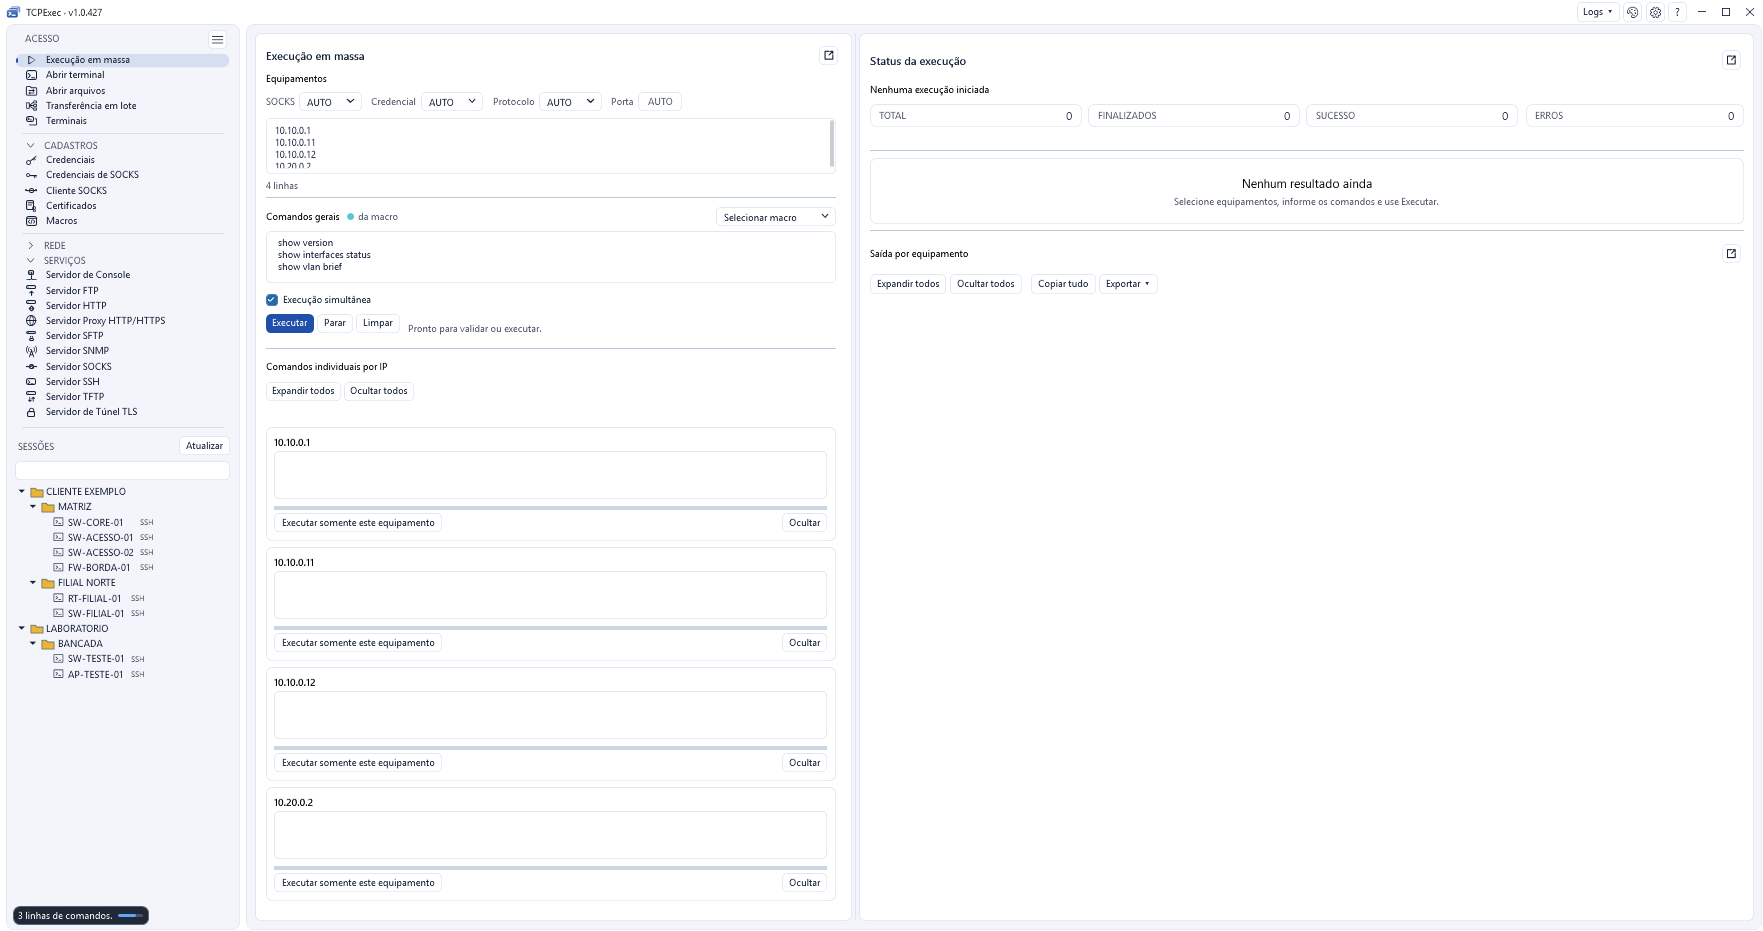
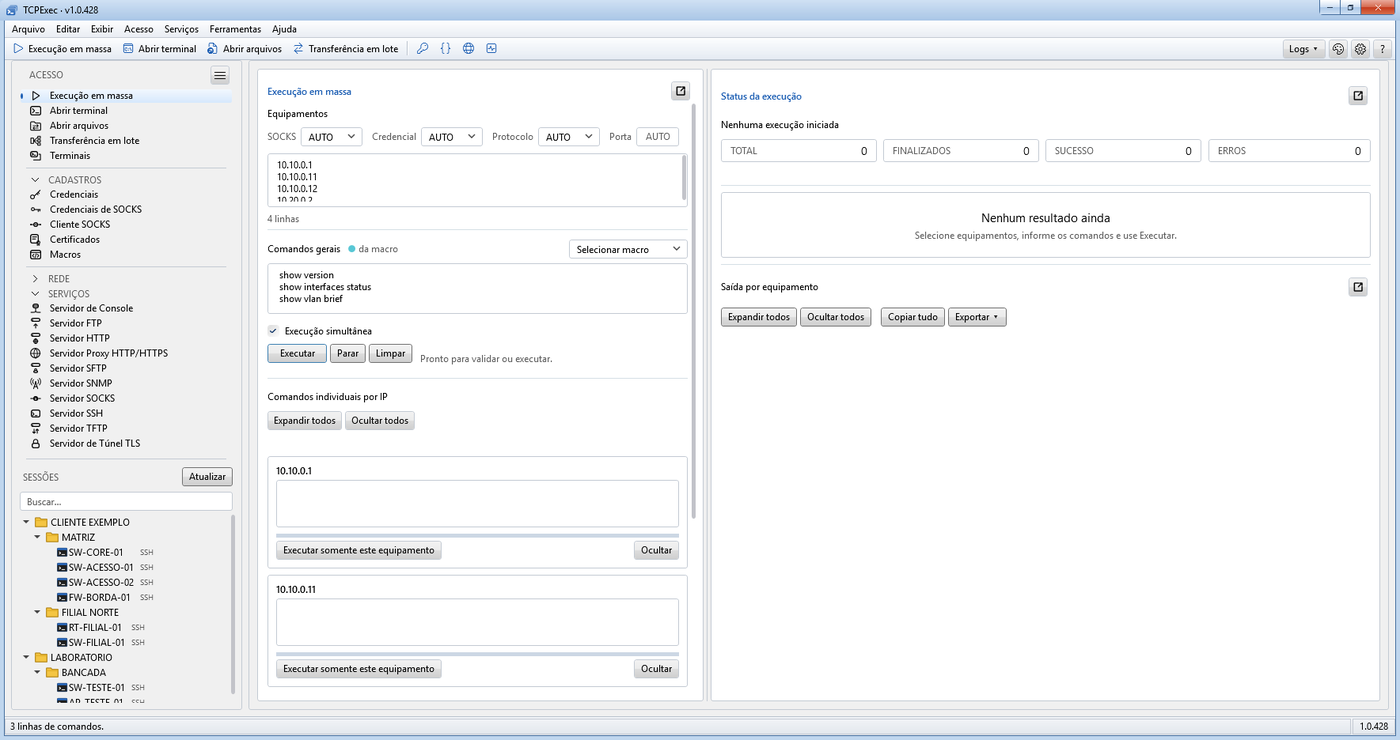
README vitrine e telas da 1.0.428 (Windows 7 Basic + Windows Clássico)

diff --git a/README.md b/README.md
@@ -1,21 +1,52 @@
-# TCPExec
+<p align="center"><img src="telas/banner.png" alt="TCPExec" width="100%"></p>
 
-Acesse e execute comandos em switches, roteadores, firewalls e servidores, um ou centenas de uma vez. / Access and run commands on switches, routers, firewalls and servers, one or hundreds at a time.
+<p align="center">
+<img src="https://img.shields.io/badge/vers%C3%A3o-1.0.428-blue"> <img src="https://img.shields.io/badge/Windows-10%20%7C%2011-0078D6"> <img src="https://img.shields.io/badge/.NET-11-512BD4">
+</p>
 
-![Tela principal / Main window](telas/principal.png)
-![Modo clássico (Windows 7) / Classic mode (Windows 7)](telas/classico.png)
-![As 10 cores de janela / The 10 window colors](telas/cores.png)
-![Escolha da aparência / Appearance choice](telas/escolha.png)
+<p align="center"><b>A estação de trabalho do técnico de redes: acesse e mande comandos para um equipamento ou para centenas de uma vez.</b><br><i>The network technician's workstation: access and send commands to one device or hundreds at once.</i></p>
 
-## Baixar / Download — v1.0.427
+<p align="center"><img src="telas/uso.gif" alt="TCPExec nos temas e cores / TCPExec in its themes and colors" width="85%"></p>
 
-- [Instalador / Installer (.msi)](https://github.com/Dorflex-DD/TCPExec/releases/download/v1.0.427/TCPExec_v1.0.427_instalador_sem-runtime.msi)
-- [Portátil / Portable (.zip)](https://github.com/Dorflex-DD/TCPExec/releases/download/v1.0.427/TCPExec_v1.0.427_executavel_sem-runtime.zip)
+## O que é / What it is
+Para quem cuida de switches, roteadores, firewalls e servidores. O TCPExec guarda os equipamentos em pastas, abre SSH, Telnet, serial e RDP e executa os mesmos comandos em muitos equipamentos de uma vez. Também traz servidores prontos (FTP, TFTP, SFTP, SSH, HTTP, SOCKS).
+*For people who look after switches, routers, firewalls and servers. TCPExec keeps devices in folders, opens SSH, Telnet, serial and RDP, and runs the same commands on many devices at once. It also ships ready-made servers (FTP, TFTP, SFTP, SSH, HTTP, SOCKS).*
 
-Windows 10/11 x64 · .NET 11
+## Destaques / Highlights
+| | |
+|---|---|
+| **Execução em massa** — os mesmos comandos em centenas de equipamentos, com o resultado de cada um.<br>*Mass execution — the same commands on hundreds of devices, with each result.* | ![](telas/principal.png) |
+| **Visual Windows 7 Basic ou Windows Clássico** — 10 cores de janela, claro ou escuro, trocados na hora.<br>*Windows 7 Basic or Windows Classic look — 10 window colors, light or dark, switched instantly.* | ![](telas/aparencia.png) |
+| **Tudo à mão no botão direito** — conectar, abrir arquivos, monitorar e copiar a partir do equipamento.<br>*Everything on right-click — connect, open files, monitor and copy from the device.* | ![](telas/menu-equipamento.png) |
 
-## Novidades / What's new
+## Como funciona / How it works
+1. Instale o .msi ou abra o portátil. / *Install the .msi or open the portable version.*
+2. Cadastre os equipamentos em pastas (um ou vários de uma vez). / *Add devices to folders (one or many at once).*
+3. Conecte com dois cliques ou mande comandos para todos de uma vez. / *Connect with a double-click or send commands to all at once.*
 
-- Novo Modo clássico (Windows 7). / New classic mode (Windows 7).
-- 10 cores de janela. / 10 window colors.
-- Estilo e cor em Configurações, vale na hora. / Style and color in Settings, applied right away.
+## Funcionalidades / Features
+| Recurso / Feature | O que faz / What it does |
+|---|---|
+| Terminais | SSH, Telnet, serial e RDP em abas, lado a lado ou em blocos. / *SSH, Telnet, serial and RDP in tabs, side by side or in blocks.* |
+| Execução em massa | Comandos e macros em muitos equipamentos, com histórico. / *Commands and macros on many devices, with history.* |
+| Servidores prontos | FTP, TFTP, SFTP, SSH, HTTP, Proxy, SOCKS, SNMP e túnel TLS. / *FTP, TFTP, SFTP, SSH, HTTP, Proxy, SOCKS, SNMP and TLS tunnel.* |
+| Ferramentas | Encaminhar portas, teste HTTP, cliente SNMP, inventário e monitorar IPs. / *Port forwarding, HTTP test, SNMP client, inventory and IP monitoring.* |
+
+## Galeria / Gallery
+| | |
+|---|---|
+| ![](telas/principal.png)<br>Windows 7 Basic (Céu) / *Windows 7 Basic (Sky)* | ![](telas/classico.png)<br>Windows Clássico / *Windows Classic* |
+| ![](telas/escuro.png)<br>Modo escuro / *Dark mode* | ![](telas/configuracoes.png)<br>Configurações › Aparência em galeria / *Settings › Appearance gallery* |
+| ![](telas/pergunta.png)<br>Pergunta no tema (cor Folha) / *Question in the theme (Leaf color)* | ![](telas/menu-equipamento.png)<br>Botão direito no equipamento / *Right-click on a device* |
+
+## Baixar / Download
+- [Instalador e portátil — versão mais nova / Installer and portable — latest version](https://github.com/Dorflex-DD/TCPExec/releases/latest)
+
+Windows 10/11 x64 · .NET 11 Desktop Runtime
+
+## Novidades / What's new — v1.0.428
+- Novo visual em todas as janelas, menus e avisos: Windows 7 Basic ou Windows Clássico, com 10 cores. / *New look in every window, menu and message: Windows 7 Basic or Windows Classic, with 10 colors.*
+- Configurações › Aparência em galeria: vale na hora; Cancelar desfaz. / *Settings › Appearance as a gallery: applies instantly; Cancel undoes.*
+- Só dois pacotes: instalador .msi e portátil .zip. / *Only two packages: .msi installer and portable .zip.*
+
+<sub>Uso somente com autorização escrita do autor. / Use only with the author's written authorization.</sub>
